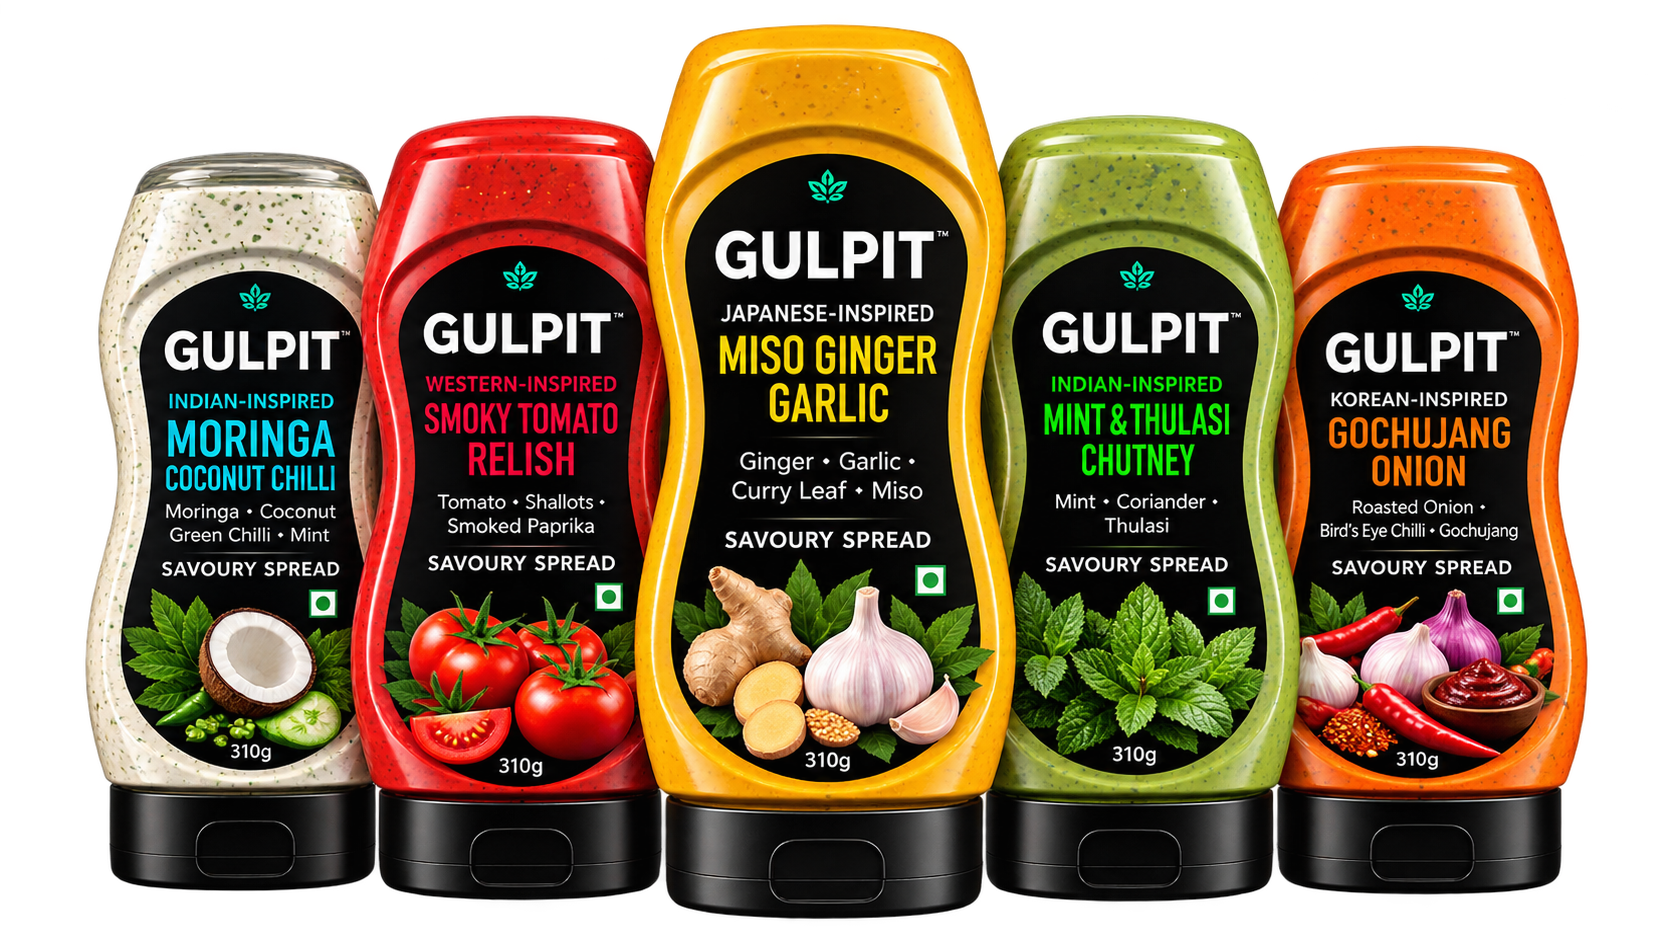
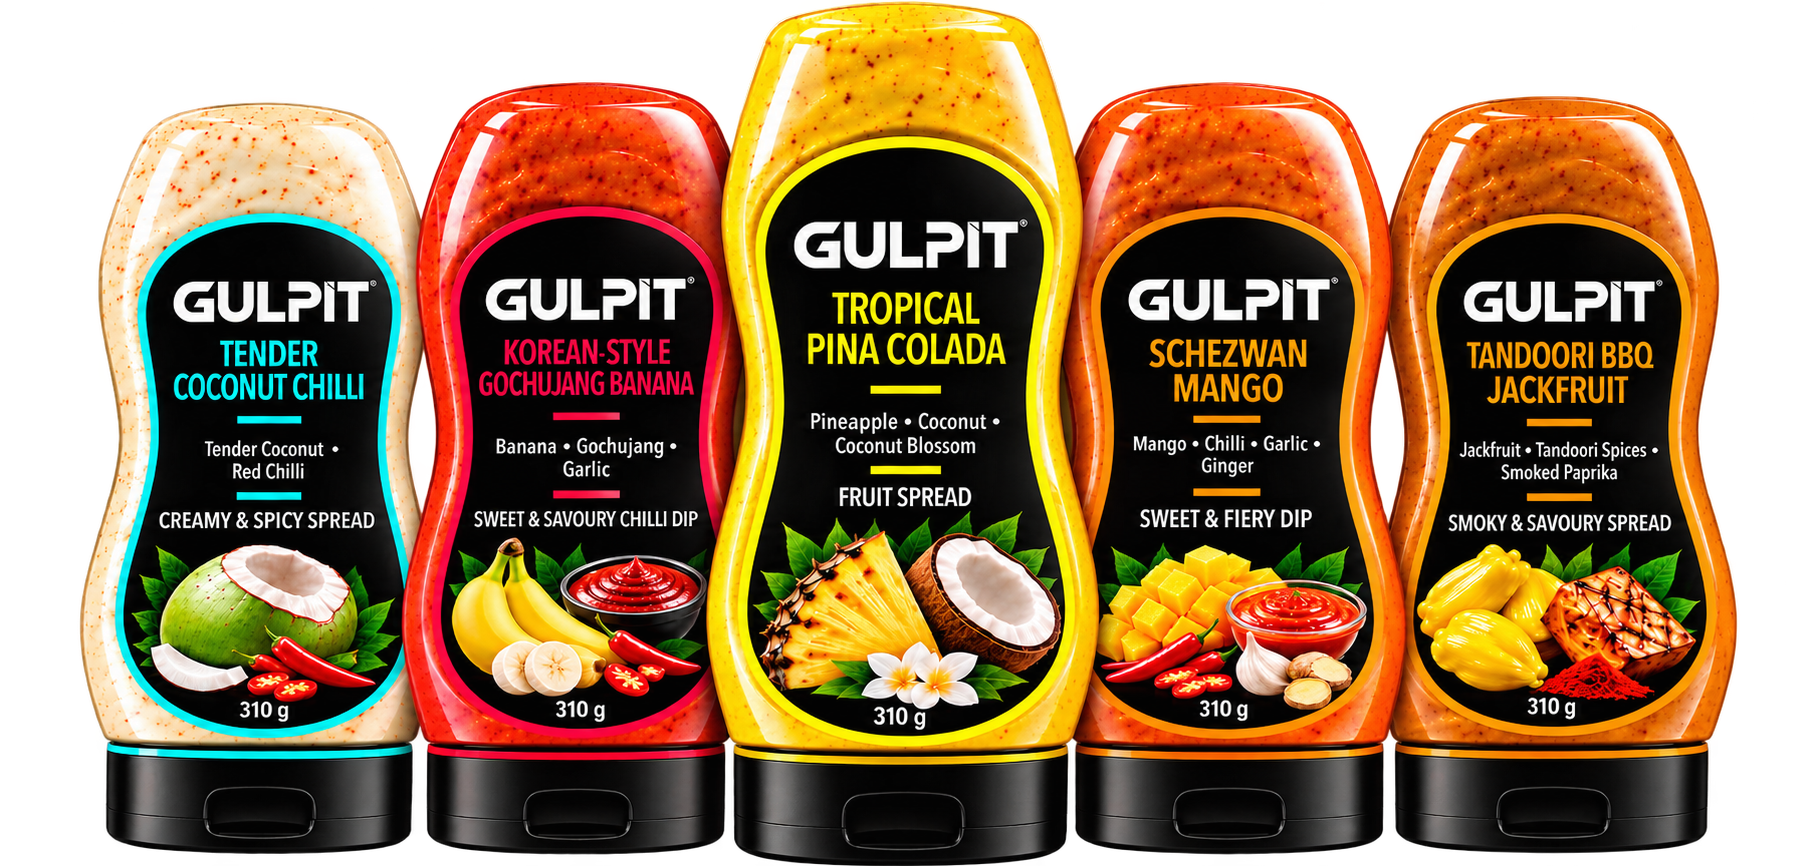
feat: use GULPIT Tropical Sauce Collection by default with collection switcher on FMCG and Gulpit pages

diff --git a/src/app/gulpit/page.tsx b/src/app/gulpit/page.tsx
@@ -34,6 +34,7 @@ interface FlavourItem {
 export default function GulpitPage() {
   const [selectedFlavour, setSelectedFlavour] = useState<FlavourItem | null>(null);
   const [isVideoModalOpen, setIsVideoModalOpen] = useState(false);
+  const [heroCollection, setHeroCollection] = useState<"tropical" | "savoury">("tropical");
 
   // All 10 Official Gulpit Flavours matching template exactly
   const flavours: FlavourItem[] = [
@@ -242,16 +243,48 @@ export default function GulpitPage() {
             </div>
           </div>
 
-          {/* Right Column: Gulpit Savoury Spread Collection Hero Visual */}
+          {/* Right Column: Gulpit Tropical / Savoury Collection Hero Visual */}
           <div className="lg:col-span-6 relative flex flex-col items-center justify-end">
+            {/* Collection Switcher Pills */}
+            <div className="flex items-center gap-2 mb-4 z-10">
+              <button
+                onClick={() => setHeroCollection("tropical")}
+                className={`px-3.5 py-1.5 rounded-full text-xs font-medium tracking-wide transition-all cursor-pointer ${
+                  heroCollection === "tropical"
+                    ? "bg-[#00BFFF] text-black shadow-[0_0_15px_rgba(0,191,255,0.5)]"
+                    : "bg-white/10 text-neutral-300 hover:text-white border border-white/10"
+                }`}
+              >
+                Tropical Collection
+              </button>
+              <button
+                onClick={() => setHeroCollection("savoury")}
+                className={`px-3.5 py-1.5 rounded-full text-xs font-medium tracking-wide transition-all cursor-pointer ${
+                  heroCollection === "savoury"
+                    ? "bg-[#00BFFF] text-black shadow-[0_0_15px_rgba(0,191,255,0.5)]"
+                    : "bg-white/10 text-neutral-300 hover:text-white border border-white/10"
+                }`}
+              >
+                Savoury Collection
+              </button>
+            </div>
+
             {/* Ambient Cyan Base Glow */}
             <div className="absolute bottom-6 left-1/2 -translate-x-1/2 w-4/5 h-20 bg-[#00BFFF]/20 rounded-full blur-3xl pointer-events-none" />
 
             {/* High-res 5-Bottle Collection (Seamless Transparent PNG, Box-less) */}
             <div className="relative w-full aspect-[16/9] max-w-[680px]">
               <Image
-                src="/brands/gulpit/gulpit_savoury_spread_collection.png"
-                alt="Gulpit Savoury Spread Collection"
+                src={
+                  heroCollection === "tropical"
+                    ? "/brands/gulpit/gulpit_tropical_collection.png"
+                    : "/brands/gulpit/gulpit_savoury_spread_collection.png"
+                }
+                alt={
+                  heroCollection === "tropical"
+                    ? "Gulpit Tropical Sauce Collection"
+                    : "Gulpit Savoury Spread Collection"
+                }
                 fill
                 priority
                 sizes="(max-width: 1024px) 100vw, 50vw"
@@ -263,7 +296,11 @@ export default function GulpitPage() {
             <div className="relative w-full h-12 sm:h-16 -mt-1 overflow-hidden opacity-25 scale-y-[-1] pointer-events-none [mask-image:linear-gradient(to_bottom,black_10%,transparent_85%)] blur-[0.6px]">
               <div className="relative w-full aspect-[16/9] max-w-[680px] mx-auto">
                 <Image
-                  src="/brands/gulpit/gulpit_savoury_spread_collection.png"
+                  src={
+                    heroCollection === "tropical"
+                      ? "/brands/gulpit/gulpit_tropical_collection.png"
+                      : "/brands/gulpit/gulpit_savoury_spread_collection.png"
+                  }
                   alt="Gulpit Floor Reflection"
                   fill
                   sizes="(max-width: 1024px) 100vw, 50vw"

diff --git a/src/app/businesses/fmcg/page.tsx b/src/app/businesses/fmcg/page.tsx
@@ -8,7 +8,7 @@ import { Leaf, FlaskConical, Heart, ArrowRight, X, Sparkles, Utensils, ShieldChe
 
 export default function FMCGPage() {
   const [activeModal, setActiveModal] = useState<"gulpit" | "snackys" | null>(null);
-  const [gulpitTab, setGulpitTab] = useState<"savoury" | "fruit">("savoury");
+  const [gulpitTab, setGulpitTab] = useState<"savoury" | "fruit">("fruit");
 
   // Official Gulpit Flavours from Avinyates Corporate Brochure
   const gulpitSavouryFlavours = [
@@ -232,14 +232,46 @@ export default function FMCGPage() {
 
             {/* Right Sub-column: 5-Bottle Collection Image with Glossy Reflection */}
             <div className="md:col-span-7 relative flex flex-col items-center justify-end">
+              {/* Collection Switcher Pills */}
+              <div className="flex items-center gap-2 mb-3 z-10">
+                <button
+                  onClick={() => setGulpitTab("fruit")}
+                  className={`px-3 py-1 rounded-full text-xs font-medium tracking-wide transition-all cursor-pointer ${
+                    gulpitTab === "fruit"
+                      ? "bg-[#00BFFF] text-black shadow-[0_0_15px_rgba(0,191,255,0.5)]"
+                      : "bg-white/10 text-neutral-300 hover:text-white border border-white/10"
+                  }`}
+                >
+                  Tropical Collection
+                </button>
+                <button
+                  onClick={() => setGulpitTab("savoury")}
+                  className={`px-3 py-1 rounded-full text-xs font-medium tracking-wide transition-all cursor-pointer ${
+                    gulpitTab === "savoury"
+                      ? "bg-[#00BFFF] text-black shadow-[0_0_15px_rgba(0,191,255,0.5)]"
+                      : "bg-white/10 text-neutral-300 hover:text-white border border-white/10"
+                  }`}
+                >
+                  Savoury Collection
+                </button>
+              </div>
+
               {/* Soft floor glow */}
               <div className="absolute -bottom-2 left-1/2 -translate-x-1/2 w-4/5 h-10 bg-[#00BFFF]/15 rounded-full blur-2xl pointer-events-none" />
 
               {/* Main Product Lineup */}
               <div className="relative w-full aspect-[16/10] sm:aspect-[16/10.5]">
                 <Image
-                  src="/brands/gulpit_collection.png"
-                  alt="Gulpit Savoury Spread Collection - 5 Bottles"
+                  src={
+                    gulpitTab === "fruit"
+                      ? "/brands/gulpit/gulpit_tropical_collection.png"
+                      : "/brands/gulpit/gulpit_savoury_spread_collection.png"
+                  }
+                  alt={
+                    gulpitTab === "fruit"
+                      ? "Gulpit Tropical Sauce Collection - 5 Bottles"
+                      : "Gulpit Savoury Spread Collection - 5 Bottles"
+                  }
                   fill
                   priority
                   sizes="(max-width: 768px) 100vw, (max-width: 1280px) 50vw, 40vw"
@@ -252,7 +284,11 @@ export default function FMCGPage() {
               <div className="relative w-full h-12 sm:h-16 -mt-1 overflow-hidden opacity-30 scale-y-[-1] pointer-events-none [mask-image:linear-gradient(to_bottom,black_10%,transparent_90%)] blur-[0.6px]">
                 <div className="relative w-full aspect-[16/10] sm:aspect-[16/10.5]">
                   <Image
-                    src="/brands/gulpit_collection.png"
+                    src={
+                      gulpitTab === "fruit"
+                        ? "/brands/gulpit/gulpit_tropical_collection.png"
+                        : "/brands/gulpit/gulpit_savoury_spread_collection.png"
+                    }
                     alt="Gulpit Floor Reflection"
                     fill
                     sizes="(max-width: 768px) 100vw, 40vw"
